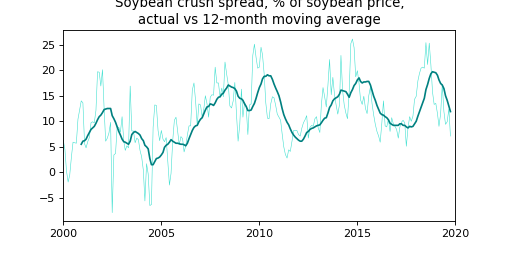
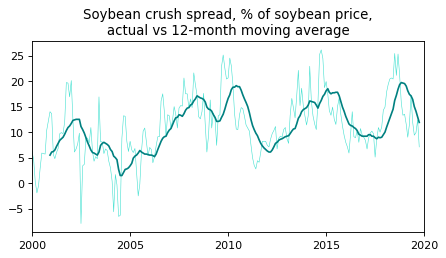
prevent image cropping

Changed region(s): [[0.0291, 0.0, 0.991, 0.9684], [0.0291, 0.498, 0.0874, 0.5534], [0.0291, 0.3874, 0.0874, 0.4427]]

diff --git a/soybean.py b/soybean.py
@@ -350,7 +350,7 @@ t_en = ("Soybean crush spread, % of soybean price,\nactual vs 12-month moving av
 def make_date(year):
     return get(str(year),'YYYY').date()    
 
-def plot(pf, title, filename='spread.png'):
+def plot(pf, title):
     my_dpi = 80
     plt.figure(figsize=(506/my_dpi, 253/my_dpi), dpi=my_dpi)
     dates = [make_date(year) for year in (2000, 2020)]
@@ -368,10 +368,12 @@ def plot(pf, title, filename='spread.png'):
             color='teal',
             ax=ax_)
     ax_.set_xlabel("")  
-    plt.savefig(filename)
+    return ax_
     
 
-plot(pf, t_en)
+ax = plot(pf, t_en)
+plt.savefig('spread.png', bbox_inches = 'tight')
+
 latest = pf.dropna().iloc[-1,:]    
 print('Latest value (%s):' % latest.name.strftime('%b-%Y'), f'{latest.margin}%')
 print(f'12-month moving average: {latest.margin_ma}%') 
